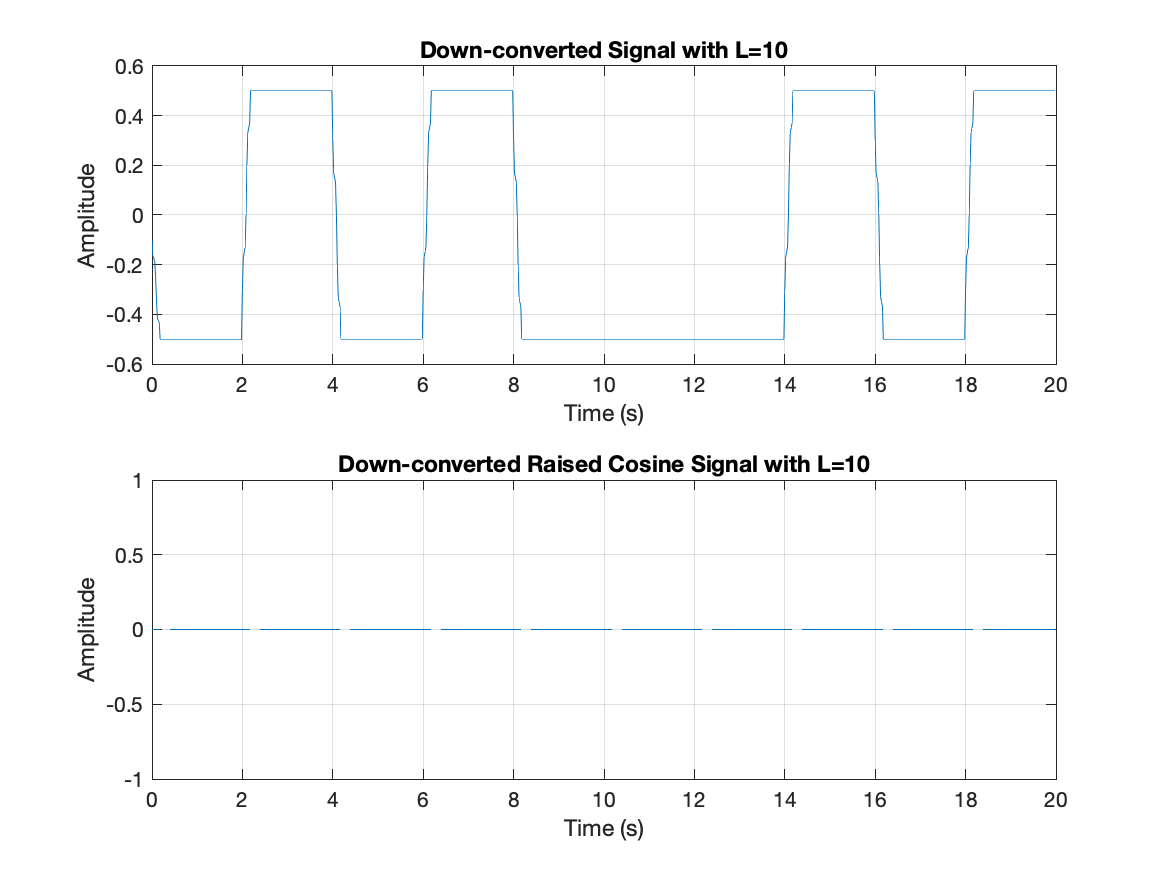
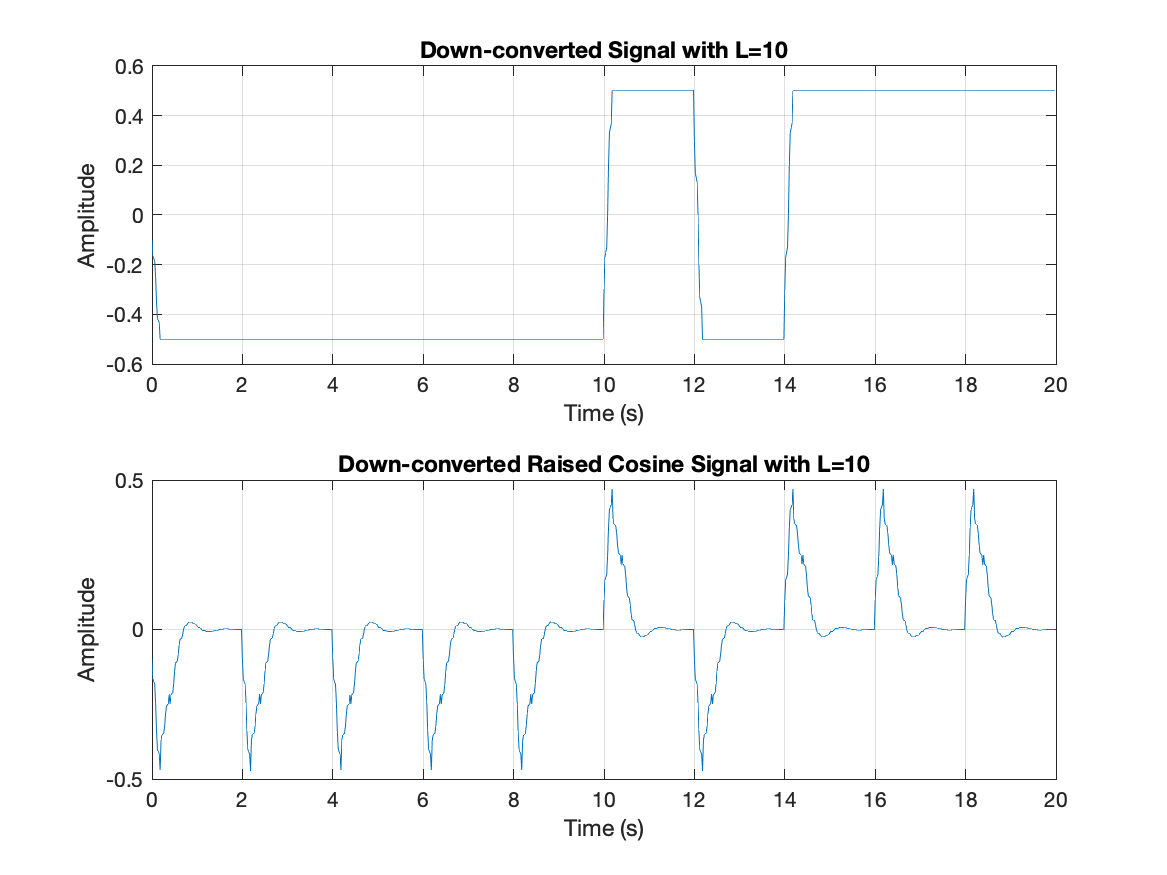
Fixed Energy Spectral Density Graph

diff --git a/assignment4.m b/assignment4.m
@@ -7,7 +7,7 @@
 clear; clc; close all;
 
 %% 1. Set Random Seed and Generate Bit Sequence
-RUID = 123456; % Replace with your RUID
+RUID = 208001821; % Replace with your RUID
 rng(RUID);
 bb = randi([0, 1], 1, 1000); % Generate 1000 random bits
 
@@ -25,7 +25,9 @@ p_t = A * ones(size(t));
 % Define raised cosine pulse p_s(t)
 r = 5; % Roll-off factor
 p_s_t = sinc(t/T) .* cos(pi*r*t/T) ./ (1 - (2*r*t/T).^2);
-p_s_t(isnan(p_s_t)) = 0; % Avoid division by zero errors
+p_s_t(abs(2*r*t/T) == 1) = 0; % Prevent division errors
+p_s_t = p_s_t / max(abs(p_s_t)); % Normalize to prevent zeroing out
+
 
 % Generate s(t) and s_s(t)
 s = [];
@@ -61,18 +63,21 @@ grid on;
 
 %% 3. Up-conversion
 fc = 5; % Carrier frequency in Hz
+
+% Perform up-conversion
 u = s .* cos(2*pi*fc*t_full);
 u_s = s_s .* cos(2*pi*fc*t_full);
 
-% Normalize u_s to prevent near-zero FFT values
-if max(abs(u_s)) > 0
-    u_s = u_s / max(abs(u_s)); % Normalize to avoid small values
-end
-disp('First few values of u_s(t):');
+% Debugging: Check if u and u_s are nonzero
+disp('First few values of u_s(t) before FFT:');
 disp(u_s(1:10));
 
-disp('Max value of u_s(t):');
-disp(max(abs(u_s)));
+% Normalize u_s to avoid very small values
+if max(abs(u_s)) > 0
+    u_s = u_s / max(abs(u_s));
+else
+    warning('u_s(t) is all zeros. Check baseband signal generation.');
+end
 
 % Compute FFT
 U = fftshift(abs(fft(u)));
@@ -97,6 +102,7 @@ xlabel('Frequency (Hz)');
 ylabel('Power (dB)');
 grid on;
 xlim([-fc-5 fc+5]); % Focus on carrier region
+
 
 
 %% 4. Down-conversion and Filtering
